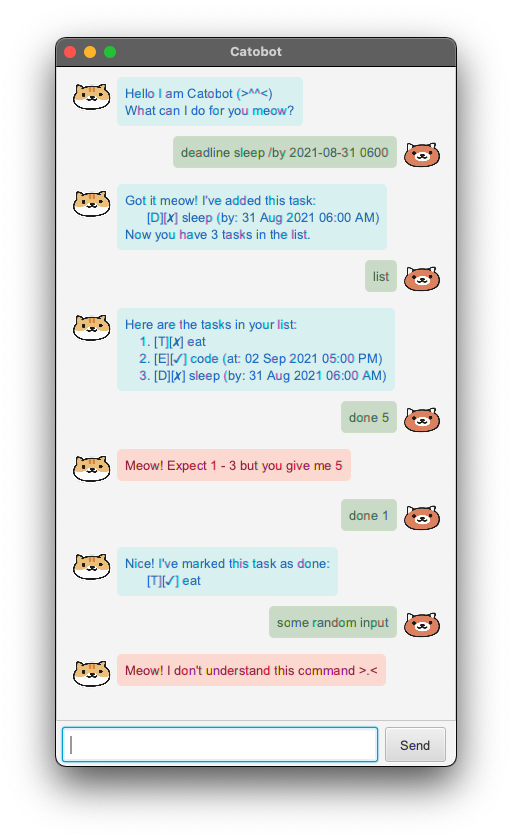
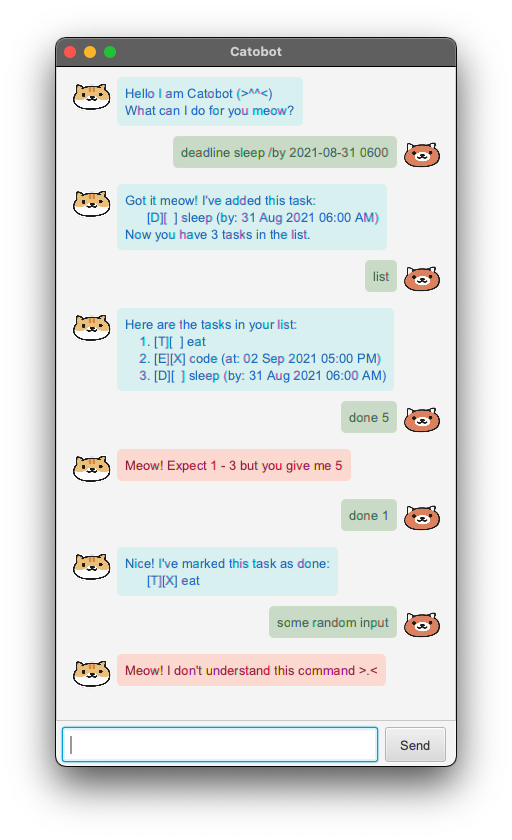
Fix font for text box and JavaDoc styles

diff --git a/src/main/java/catobot/BotDialogBox.java b/src/main/java/catobot/BotDialogBox.java
@@ -28,7 +28,8 @@ public class BotDialogBox extends HBox {
 
     private BotDialogBox(String text, Image img) {
         try {
-            FXMLLoader fxmlLoader = new FXMLLoader(MainWindow.class.getResource("/view/BotDialogBox.fxml"));
+            FXMLLoader fxmlLoader = new FXMLLoader(
+                    MainWindow.class.getResource("/view/BotDialogBox.fxml"));
             fxmlLoader.setController(this);
             fxmlLoader.setRoot(this);
             fxmlLoader.load();
@@ -59,6 +60,7 @@ public class BotDialogBox extends HBox {
         String otherSetting = "-fx-label-padding: 8; -fx-border-radius: 5; -fx-background-radius: 5";
         dialog.setStyle(backgroundSetting + otherSetting);
     }
+
     /**
      * Gets the bot dialog box.
      *

diff --git a/src/main/java/catobot/Main.java b/src/main/java/catobot/Main.java
@@ -13,7 +13,7 @@ import javafx.stage.Stage;
  */
 public class Main extends Application {
 
-    private Catobot catobot = new Catobot("./data/Catobot.txt");
+    private final Catobot catobot = new Catobot("./data/Catobot.txt");
 
     /**
      * Starts the scene.
@@ -26,6 +26,9 @@ public class Main extends Application {
             FXMLLoader fxmlLoader = new FXMLLoader(Main.class.getResource("/view/MainWindow.fxml"));
             AnchorPane ap = fxmlLoader.load();
             Scene scene = new Scene(ap);
+
+            // fix for font
+            scene.getRoot().setStyle("-fx-font-family: 'Arial'");
             stage.setScene(scene);
             stage.setTitle("Catobot");
             fxmlLoader.<MainWindow>getController().setCatobot(catobot);

diff --git a/src/main/java/catobot/item/Deadline.java b/src/main/java/catobot/item/Deadline.java
@@ -8,7 +8,7 @@ import catobot.exception.EmptyCommandException;
  * Represents a type of Task which has a due time.
  */
 public class Deadline extends Task {
-    /** Due datetime of the deadline. */
+    /** The datetime of the deadline. */
     private final LocalDateTime by;
 
     /**
@@ -62,7 +62,7 @@ public class Deadline extends Task {
 
 
     /**
-     * Compare two deadlines chronologically (the latest first).
+     * Compares two deadlines chronologically (the latest first).
      *
      * @param o Another task being compared with.
      * @return -1 if the datetime is later than the other

diff --git a/src/main/java/catobot/Catobot.java b/src/main/java/catobot/Catobot.java
@@ -10,9 +10,14 @@ import catobot.item.TaskList;
  * Represents a Catobot.
  */
 public class Catobot {
+    /** The name of Catobot. */
     public static final String NAME = "Catobot";
+
+    /** The welcome message of Catobot. */
     public static final String WELCOME =
             String.format("Hello I am %s (>^^<)\nWhat can I do for you meow?", Catobot.NAME);
+
+    /** The exit message of Catobot. */
     public static final String BYE =
             "Bye meow! I will always wait here meow(>^^<)";
 

diff --git a/src/main/java/catobot/UserDialogBox.java b/src/main/java/catobot/UserDialogBox.java
@@ -23,7 +23,8 @@ public class UserDialogBox extends HBox {
 
     private UserDialogBox(String text, Image img) {
         try {
-            FXMLLoader fxmlLoader = new FXMLLoader(MainWindow.class.getResource("/view/UserDialogBox.fxml"));
+            FXMLLoader fxmlLoader = new FXMLLoader(
+                    MainWindow.class.getResource("/view/UserDialogBox.fxml"));
             fxmlLoader.setController(this);
             fxmlLoader.setRoot(this);
             fxmlLoader.load();

diff --git a/src/main/java/catobot/MainWindow.java b/src/main/java/catobot/MainWindow.java
@@ -39,7 +39,8 @@ public class MainWindow extends AnchorPane {
     }
 
     /**
-     * Creates two dialog boxes, one echoing user input and the other containing Duke's reply and then appends them to
+     * Creates two dialog boxes, one echoing user input and the other
+     * containing Duke's reply and then appends them to
      * the dialog container. Clears the user input after processing.
      */
     @FXML

diff --git a/src/main/java/catobot/item/Event.java b/src/main/java/catobot/item/Event.java
@@ -63,7 +63,7 @@ public class Event extends Task {
     }
 
     /**
-     * Compare two events chronologically (the latest first).
+     * Compares two events chronologically (the latest first).
      *
      * @param o Another task being compared with.
      * @return -1 if the datetime is later than the other

diff --git a/src/main/java/catobot/command/FindCommand.java b/src/main/java/catobot/command/FindCommand.java
@@ -30,8 +30,7 @@ public class FindCommand extends Command {
      */
     @Override
     public String execute(TaskList tasks, Storage storage) throws BotException {
-        String result = tasks.search(keyword);
-        return result;
+        return tasks.search(keyword);
     }
 
 }

diff --git a/src/main/java/catobot/command/SortCommand.java b/src/main/java/catobot/command/SortCommand.java
@@ -30,7 +30,7 @@ public class SortCommand extends Command {
     }
 
     /**
-     * Sort a specific type of tasks.
+     * Sorts a specific type of tasks.
      *
      * @param tasks The list of tasks to be worked on.
      * @param storage The storage of the tasks.

diff --git a/src/main/java/catobot/item/Task.java b/src/main/java/catobot/item/Task.java
@@ -33,7 +33,7 @@ public class Task implements Comparable<Task> {
     }
 
     private String getStatusIcon() {
-        return (isDone ? "✓" : "✗"); // mark done task with X
+        return (isDone ? "X" : "  "); // mark done task with X
     }
 
     /**
